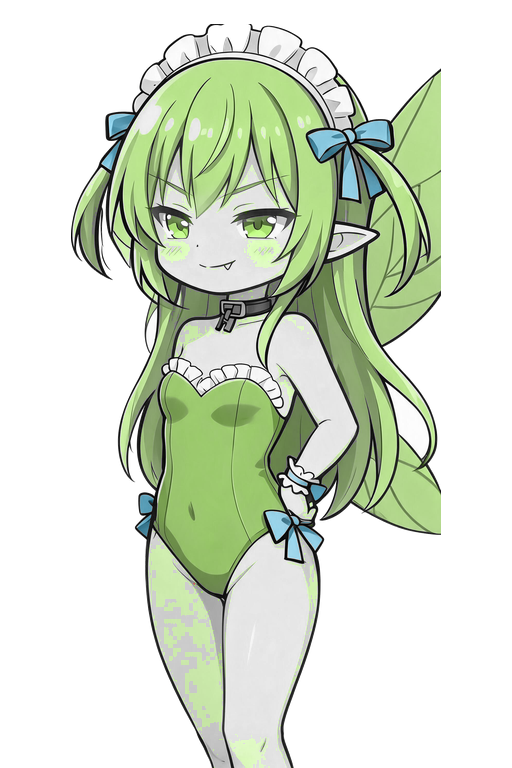
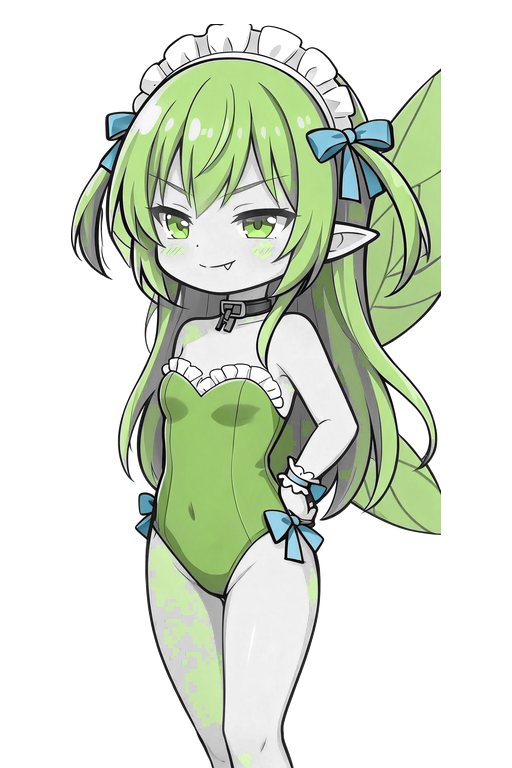
art: 统一所有立绘肤色灰阶（match_skin）+ 清除玛丽苏腿部绿斑（despeckle）

diff --git a/tools/despeckle.py b/tools/despeckle.py
@@ -1,0 +1,88 @@
+# -*- coding: utf-8 -*-
+"""清除「绿色残斑」：压色后，皮肤/腿部上残留的低彩度绿会变成脏斑点。
+
+做法：对每个偏绿的像素，看它周围窗口里同色像素的占比；
+占比太低（孤立/边缘过渡）就把它转成中性灰，占比高（真正的头发/衣服）保留。
+
+用法：
+    python tools/despeckle.py art/portrait/marysue.png [--win 9] [--min 0.35] [--hue 120]
+"""
+import sys
+import glob
+import colorsys
+from PIL import Image
+
+WIN = 9
+MIN_RATIO = 0.35
+HUE_TOL = 120.0     # 与「绿」的允许偏差（度）
+GREEN_HUE = 89.4
+
+
+def is_greenish(r, g, b):
+    mx, mn = max(r, g, b), min(r, g, b)
+    if (mx - mn) / 255.0 < 0.12:
+        return False
+    hh, ll, ss = colorsys.rgb_to_hls(r / 255.0, g / 255.0, b / 255.0)
+    deg = hh * 360.0
+    d = abs(deg - GREEN_HUE)
+    d = min(d, 360 - d)
+    return d <= HUE_TOL
+
+
+def process(path, win=WIN, min_ratio=MIN_RATIO):
+    im = Image.open(path).convert('RGBA')
+    px = im.load()
+    w, h = im.size
+    mask = [[False] * w for _ in range(h)]
+    for y in range(h):
+        for x in range(w):
+            r, g, b, a = px[x, y]
+            if a > 0 and is_greenish(r, g, b):
+                mask[y][x] = True
+
+    half = win // 2
+    fixed = 0
+    for y in range(h):
+        for x in range(w):
+            if not mask[y][x]:
+                continue
+            tot = 0
+            hit = 0
+            for dy in range(-half, half + 1):
+                yy = y + dy
+                if yy < 0 or yy >= h:
+                    continue
+                for dx in range(-half, half + 1):
+                    xx = x + dx
+                    if xx < 0 or xx >= w:
+                        continue
+                    r, g, b, a = px[xx, yy]
+                    if a == 0:
+                        continue
+                    tot += 1
+                    if mask[yy][xx]:
+                        hit += 1
+            if tot and hit / tot < min_ratio:
+                r, g, b, a = px[x, y]
+                v = int(round((r + g + b) / 3))
+                px[x, y] = (v, v, v, a)
+                fixed += 1
+    im.save(path)
+    print('去绿斑: {}  清理 {} px'.format(path, fixed))
+
+
+if __name__ == '__main__':
+    args = sys.argv[1:]
+    files = [a for a in args if not a.startswith('--')]
+    if '--win' in args:
+        WIN = int(args[args.index('--win') + 1])
+        files = [f for f in files if f != str(WIN)]
+    if '--min' in args:
+        MIN_RATIO = float(args[args.index('--min') + 1])
+        files = [f for f in files if f != str(MIN_RATIO)]
+    expanded = []
+    for pattern in files:
+        hits = glob.glob(pattern)
+        expanded.extend(hits if hits else [pattern])
+    for f in expanded:
+        process(f)

diff --git a/tools/match_skin.py b/tools/match_skin.py
@@ -1,0 +1,79 @@
+# -*- coding: utf-8 -*-
+"""把立绘的「皮肤灰」亮度对齐到统一目标，解决不同批次出图肤色深浅不一的问题。
+
+只作用于低彩度像素（chroma < 0.08，即已经压成中性的皮肤/白发/白衣），
+按脸部区域的灰阶中位数算一个增益，再整体乘上去。色相不变，所以不会破三色规范。
+
+用法：
+    python tools/match_skin.py art/portrait/*.png --target 0.70
+"""
+import sys
+import glob
+from PIL import Image
+
+TARGET = 0.70
+FACTOR_MIN = 0.88
+FACTOR_MAX = 1.38
+FACE_BOX = (0.28, 0.18, 0.72, 0.46)   # 相对坐标，取脸部区域
+CHROMA_MAX = 0.08
+
+
+def face_gray_median(im):
+    w, h = im.size
+    x0, y0, x1, y1 = FACE_BOX
+    box = im.crop((int(w * x0), int(h * y0), int(w * x1), int(h * y1)))
+    px = box.load()
+    bw, bh = box.size
+    vals = []
+    for y in range(0, bh, 2):
+        for x in range(0, bw, 2):
+            r, g, b, a = px[x, y]
+            if a < 200:
+                continue
+            if (max(r, g, b) - min(r, g, b)) / 255.0 > 0.06:
+                continue
+            vals.append((r + g + b) / 765.0)
+    if not vals:
+        return None
+    vals.sort()
+    return vals[len(vals) // 2]
+
+
+def process(path, target=TARGET):
+    im = Image.open(path).convert('RGBA')
+    med = face_gray_median(im)
+    if med is None or med <= 0.01:
+        print('跳过（无灰度皮肤）:', path)
+        return
+    factor = target / med
+    factor = max(FACTOR_MIN, min(FACTOR_MAX, factor))
+    px = im.load()
+    w, h = im.size
+    for y in range(h):
+        for x in range(w):
+            r, g, b, a = px[x, y]
+            if a == 0:
+                continue
+            mx, mn = max(r, g, b), min(r, g, b)
+            if (mx - mn) / 255.0 > CHROMA_MAX:
+                continue
+            px[x, y] = (
+                min(255, int(r * factor + 0.5)),
+                min(255, int(g * factor + 0.5)),
+                min(255, int(b * factor + 0.5)),
+                a,
+            )
+    im.save(path)
+    print('对齐肤色: {}  脸中位 {:.2f} -> {:.2f}  增益 {:.2f}'.format(path, med, target, factor))
+
+
+if __name__ == '__main__':
+    args = [a for a in sys.argv[1:] if not a.startswith('--')]
+    if '--target' in sys.argv:
+        TARGET = float(sys.argv[sys.argv.index('--target') + 1])
+        args = [a for a in args if a != str(TARGET)]
+    files = []
+    for a in args:
+        files.extend(glob.glob(a))
+    for f in files:
+        process(f, TARGET)

diff --git a/tools/unify_palette.py b/tools/unify_palette.py
@@ -51,7 +51,7 @@ def unify(src, dst, gray_steps=GRAY_STEPS):
                 rr, gg, bb = colorsys.hls_to_rgb(0.0, ll, ss)
                 px[x, y] = (int(rr * 255 + 0.5), int(gg * 255 + 0.5), int(bb * 255 + 0.5), a)
                 locked += 1
-            elif near_green and chroma >= 0.16 and ll <= 0.88:
+            elif near_green and chroma >= 0.20 and ll <= 0.86:
                 rr, gg, bb = colorsys.hls_to_rgb(GREEN_HUE / 360.0, ll, ss)
                 px[x, y] = (int(rr * 255 + 0.5), int(gg * 255 + 0.5), int(bb * 255 + 0.5), a)
                 locked += 1
